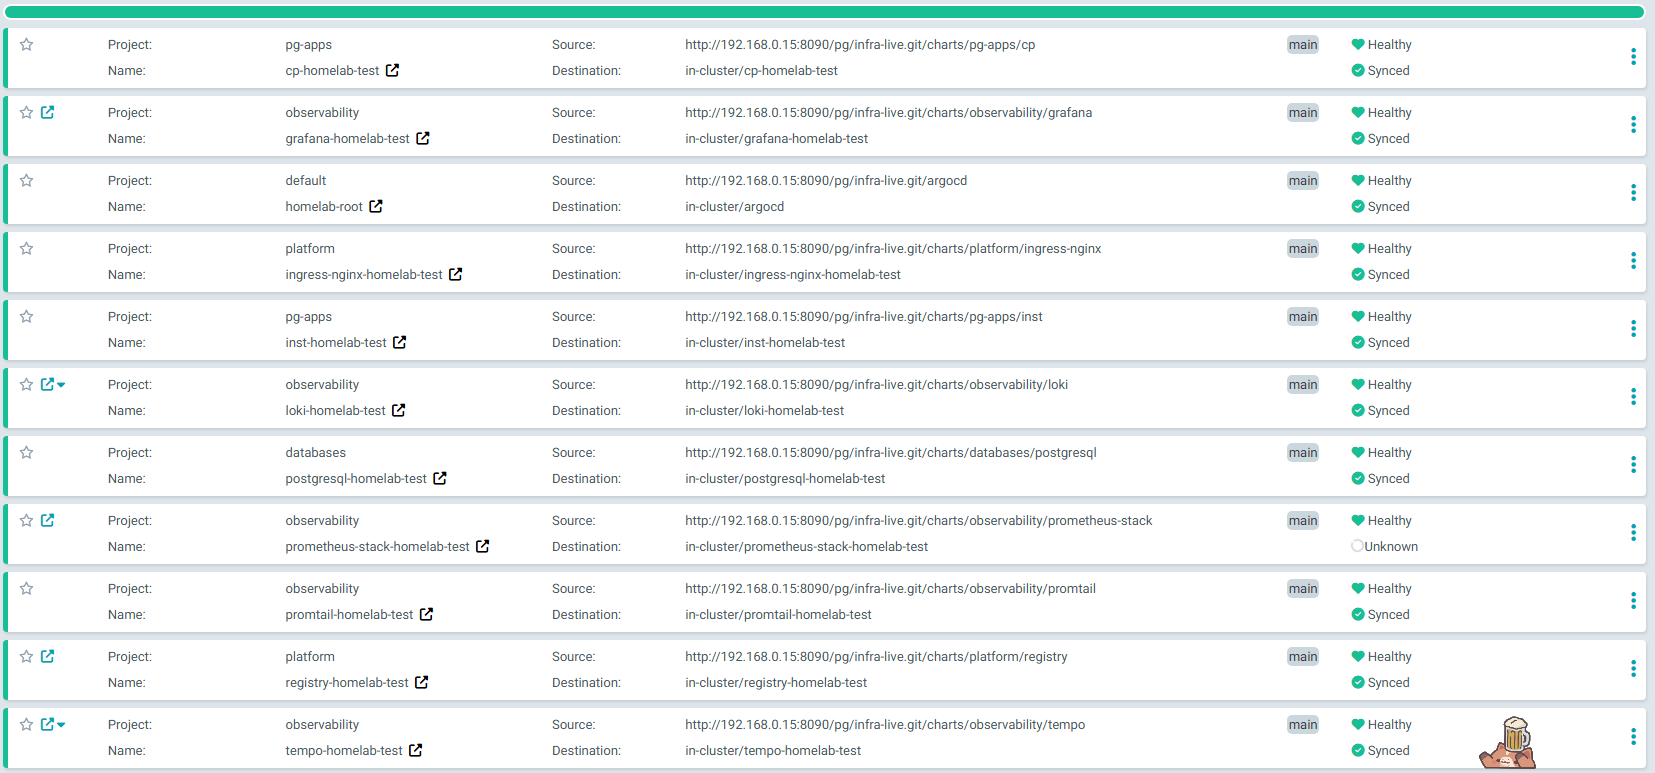
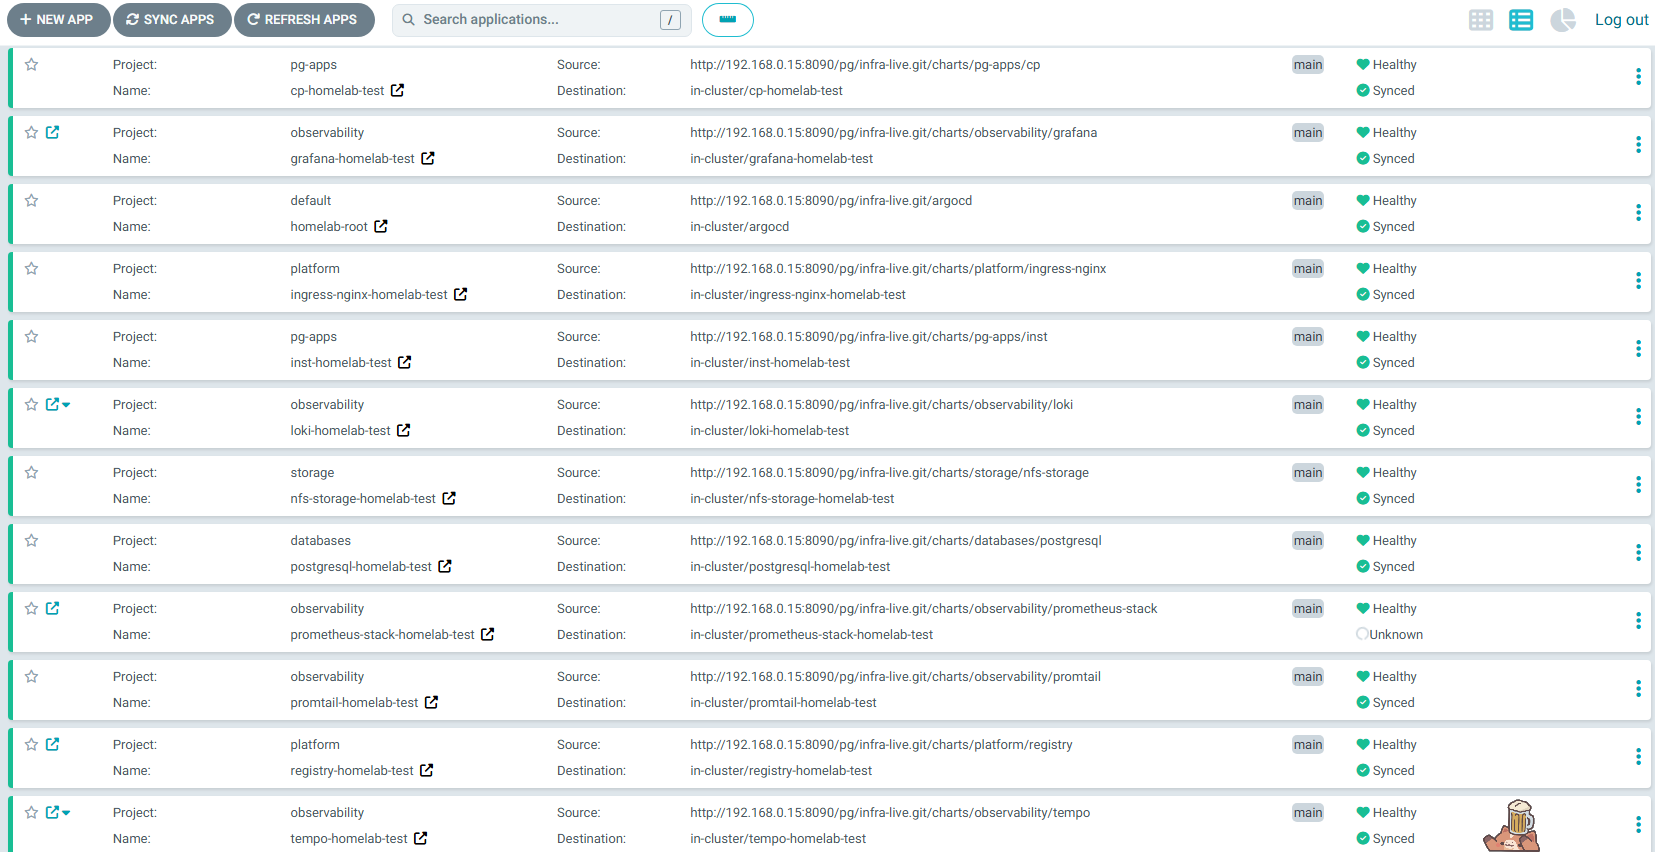
update somethings

diff --git a/README.md b/README.md
@@ -300,8 +300,8 @@
 | Helm Chart | Vanishing 6H `Bitnami 腳本底層對底線 _ 敏感性` | 2026-06-08 |
 | GitOps | Build : `PG-Apps` `cp` | 2026-06-10 |
 | GitOps | Build : `PG-Apps` `inst` | 2026-06-10 |
-| GitOps | Build : `Storage` `nfs` | - |
-| K8s | Experience : NFS 儲存機制 ( SQLite ) | - |
+| GitOps | Build : `Storage` `nfs` | 2026-06-13 |
+| K8s | Experience : NFS 儲存機制 ( SQLite ) | 2026-06-13 |
 | GitOps | Build : `Security` `Vault` | `TBD` |
 | GitOps | Maintain 2 repo ( `CI` + `CD` ) | `TBD` |
 